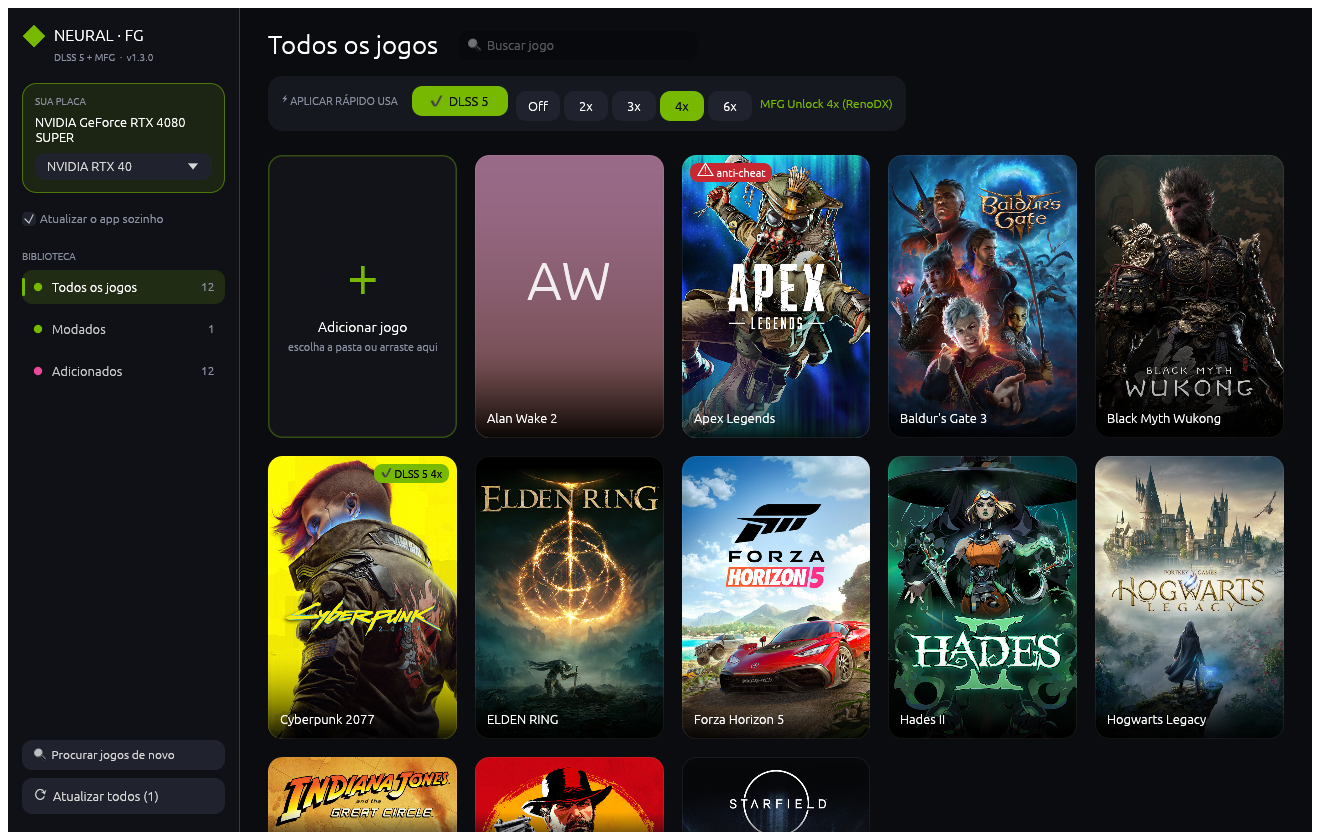
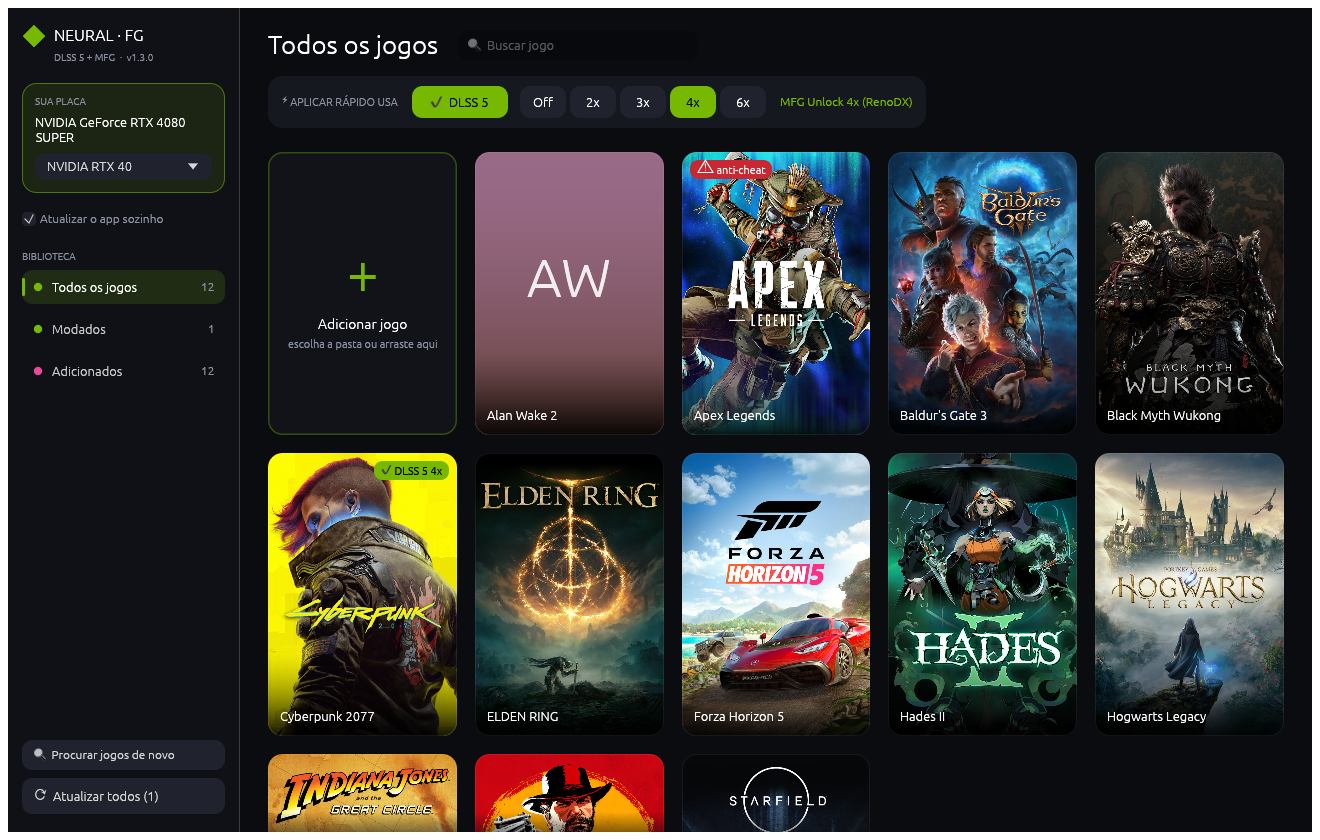
fix: alinha a barra Aplicar rápido numa linha só

diff --git a/src/main.rs b/src/main.rs
@@ -535,38 +535,27 @@ fn card_grid(ui: &mut egui::Ui, tex: &TextureHandle, entries: &[&Entry], acc: Co
     }
 }
 
-/// DLSS 5 switch + frame generation segmented control; `big` for the game page.
-fn feature_controls(ui: &mut egui::Ui, app: &mut App, acc: Color32, big: bool) {
-    let h = if big { 46.0 } else { 30.0 };
-    let size = if big { 16.0 } else { 13.0 };
+/// DLSS 5 switch + frame generation segmented control, laid out in the caller's row so everything shares one height.
+fn feature_controls(ui: &mut egui::Ui, app: &mut App, acc: Color32) {
+    const H: f32 = 32.0;
     let ok5 = plan::dlss5_supported(app.gpu.tier);
-    ui.add_enabled_ui(ok5, |ui| {
-        let on = app.dlss5 && ok5;
-        let t = RichText::new(if on { "✔  DLSS 5" } else { "DLSS 5" }).size(size).strong();
-        let w = if big { ui.available_width() } else { 96.0 };
-        let b = egui::Button::new(if on { t.color(BG) } else { t }).fill(if on { acc } else { CARD_HI }).min_size(vec2(w, h));
-        let hint = if app.gpu.tier.is_nvidia() { "DLSS 5 Neural Rendering via DLSS Unlocked" } else { "DLSS 5 via NeuralHub (DLSS-NR on AMD)" };
-        if ui.add(b).on_hover_text(hint).on_disabled_hover_text("Esta placa não roda DLSS 5").clicked() {
-            app.dlss5 = !app.dlss5;
-        }
-    });
-    if big {
-        ui.add_space(4.0);
-        ui.label(RichText::new("FRAME GENERATION").size(11.0).color(MUTED).strong());
+    let on = app.dlss5 && ok5;
+    let t = RichText::new(if on { "✔  DLSS 5" } else { "DLSS 5" }).size(13.0).strong();
+    let b = egui::Button::new(if on { t.color(BG) } else { t }).fill(if on { acc } else { CARD_HI }).min_size(vec2(96.0, H));
+    let hint = if app.gpu.tier.is_nvidia() { "DLSS 5 Neural Rendering via DLSS Unlocked" } else { "DLSS 5 via NeuralHub (DLSS-NR on AMD)" };
+    if ui.add_enabled(ok5, b).on_hover_text(hint).on_disabled_hover_text("Esta placa não roda DLSS 5").clicked() {
+        app.dlss5 = !app.dlss5;
     }
-    ui.horizontal(|ui| {
-        ui.spacing_mut().item_spacing.x = 4.0;
-        let ok = plan::multipliers(app.gpu.tier);
-        let w = if big { (ui.available_width() - 16.0) / 5.0 } else { 44.0 };
-        for m in [0u8, 2, 3, 4, 6] {
-            let on = app.mult == m;
-            let t = RichText::new(if m == 0 { "Off".into() } else { format!("{m}x") }).size(size).strong();
-            let b = egui::Button::new(if on { t.color(BG) } else { t }).fill(if on { acc } else { CARD_HI }).min_size(vec2(w, h));
-            if ui.add_enabled(ok.contains(&m), b).on_disabled_hover_text("Esta placa não chega nesse multiplicador").clicked() {
-                app.mult = m;
-            }
+    ui.add_space(8.0);
+    let ok = plan::multipliers(app.gpu.tier);
+    for m in [0u8, 2, 3, 4, 6] {
+        let sel = app.mult == m;
+        let t = RichText::new(if m == 0 { "Off".into() } else { format!("{m}x") }).size(13.0).strong();
+        let b = egui::Button::new(if sel { t.color(BG) } else { t }).fill(if sel { acc } else { CARD_HI }).min_size(vec2(46.0, H));
+        if ui.add_enabled(ok.contains(&m), b).on_disabled_hover_text("Esta placa não chega nesse multiplicador").clicked() {
+            app.mult = m;
         }
-    });
+    }
 }
 
 /// Jogo → Upscaler → DLSS 5 → Frame Gen → Tela, each stage lit when it does something.
@@ -936,10 +925,13 @@ fn library_page(ui: &mut egui::Ui, app: &mut App, acc: Color32, acts: &mut Vec<A
         });
         ui.add_space(8.0);
         egui::Frame::new().fill(CARD).corner_radius(14).inner_margin(egui::Margin::symmetric(14, 10)).show(ui, |ui| {
-            ui.horizontal(|ui| {
-                ui.add_sized(vec2(0.0, 30.0), egui::Label::new(RichText::new("⚡ APLICAR RÁPIDO USA").size(11.0).color(MUTED).strong()).extend());
-                ui.add_space(6.0);
-                feature_controls(ui, app, acc, false);
+            // One row, every item centred on the same line (labels and 32 px buttons).
+            ui.allocate_ui_with_layout(vec2(ui.available_width(), 32.0), egui::Layout::left_to_right(egui::Align::Center), |ui| {
+                ui.spacing_mut().item_spacing.x = 4.0;
+                ui.label(RichText::new("⚡ APLICAR RÁPIDO USA").size(11.0).color(MUTED).strong());
+                ui.add_space(10.0);
+                feature_controls(ui, app, acc);
+                ui.add_space(10.0);
                 let [_, _, fg] = plan::build(app.gpu.tier, app.dlss5, app.mult).pipeline(app.gpu.tier, app.mult);
                 ui.label(RichText::new(fg).size(12.0).color(acc));
             });

diff --git a/CHANGELOG.md b/CHANGELOG.md
@@ -10,6 +10,7 @@ O formato segue o [Keep a Changelog](https://keepachangelog.com/pt-BR/1.1.0/) e 
 - Cartão **Sobre** com a descrição, desenvolvedora, publicadora, lançamento e gêneros, em português, vindos da API oficial da loja Steam (`appdetails`), mais a loja e a pasta do jogo.
 - Cartão **Mods neste jogo**: status em verde, uma linha por escolha (DLSS 5, Frame Generation, Carregar como) com o seletor ao lado, e o botão de aplicar embaixo.
 - Títulos dos cartões maiores e em texto normal.
+- Barra "Aplicar rápido usa" alinhada: rótulo, DLSS 5, multiplicadores e o resultado na mesma linha e na mesma altura.
 
 ### Corrigido
 - **DLSS 5 na AMD não abria no jogo (End sem efeito)** quando o jogo já tinha OptiScaler/Frame Generation instalados pelo app: o OptiScaler ficava na frente do carregador do NeuralHub. Agora, ao instalar o DLSS 5 na AMD, o app remove antes os mods dele daquele jogo. Dicas de requisitos e do log do NeuralHub na tela do jogo.
